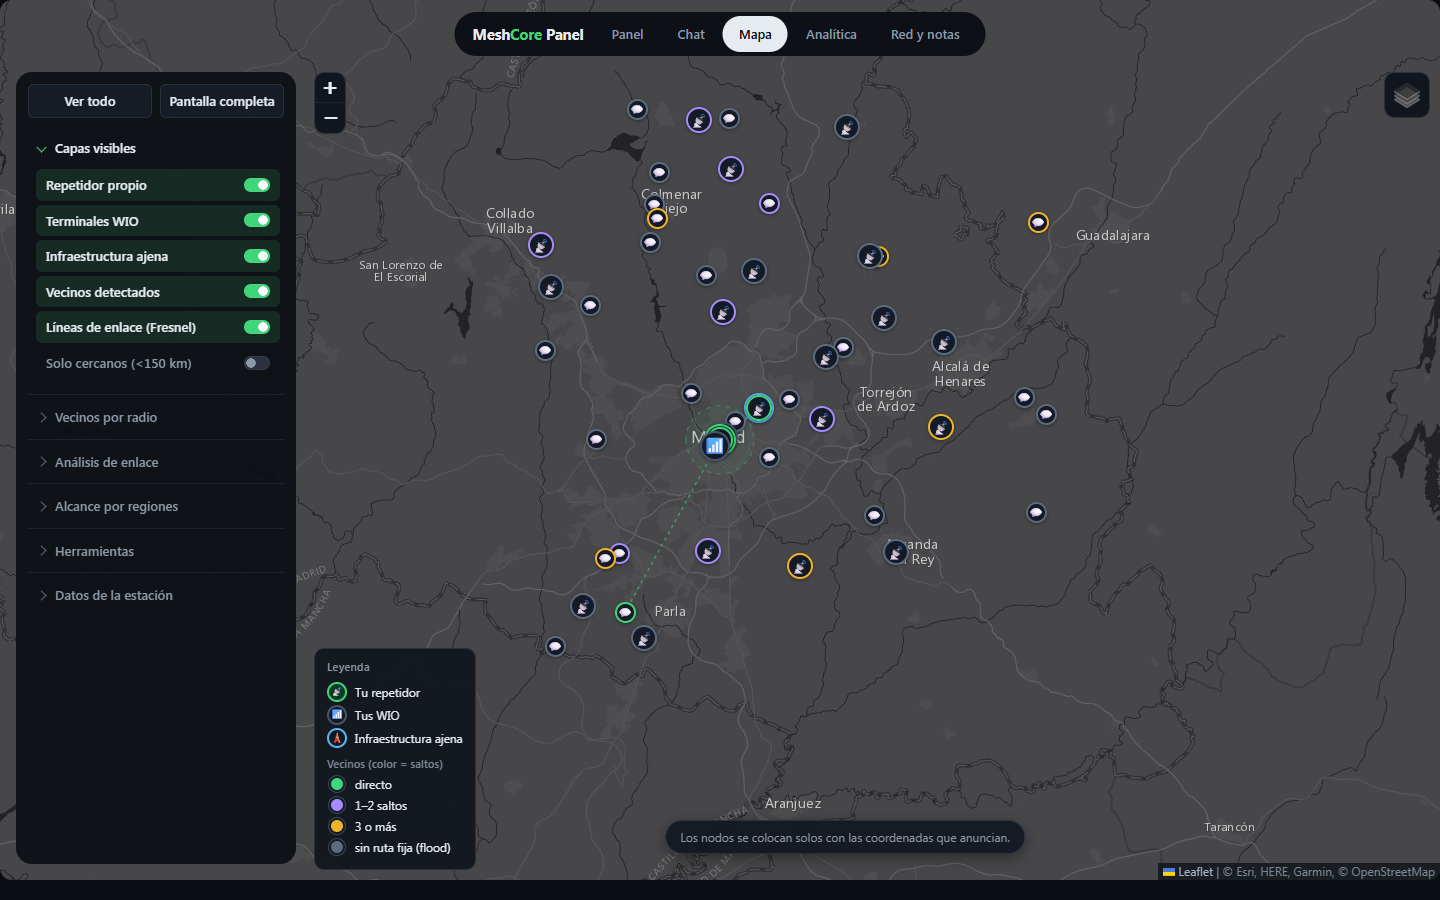
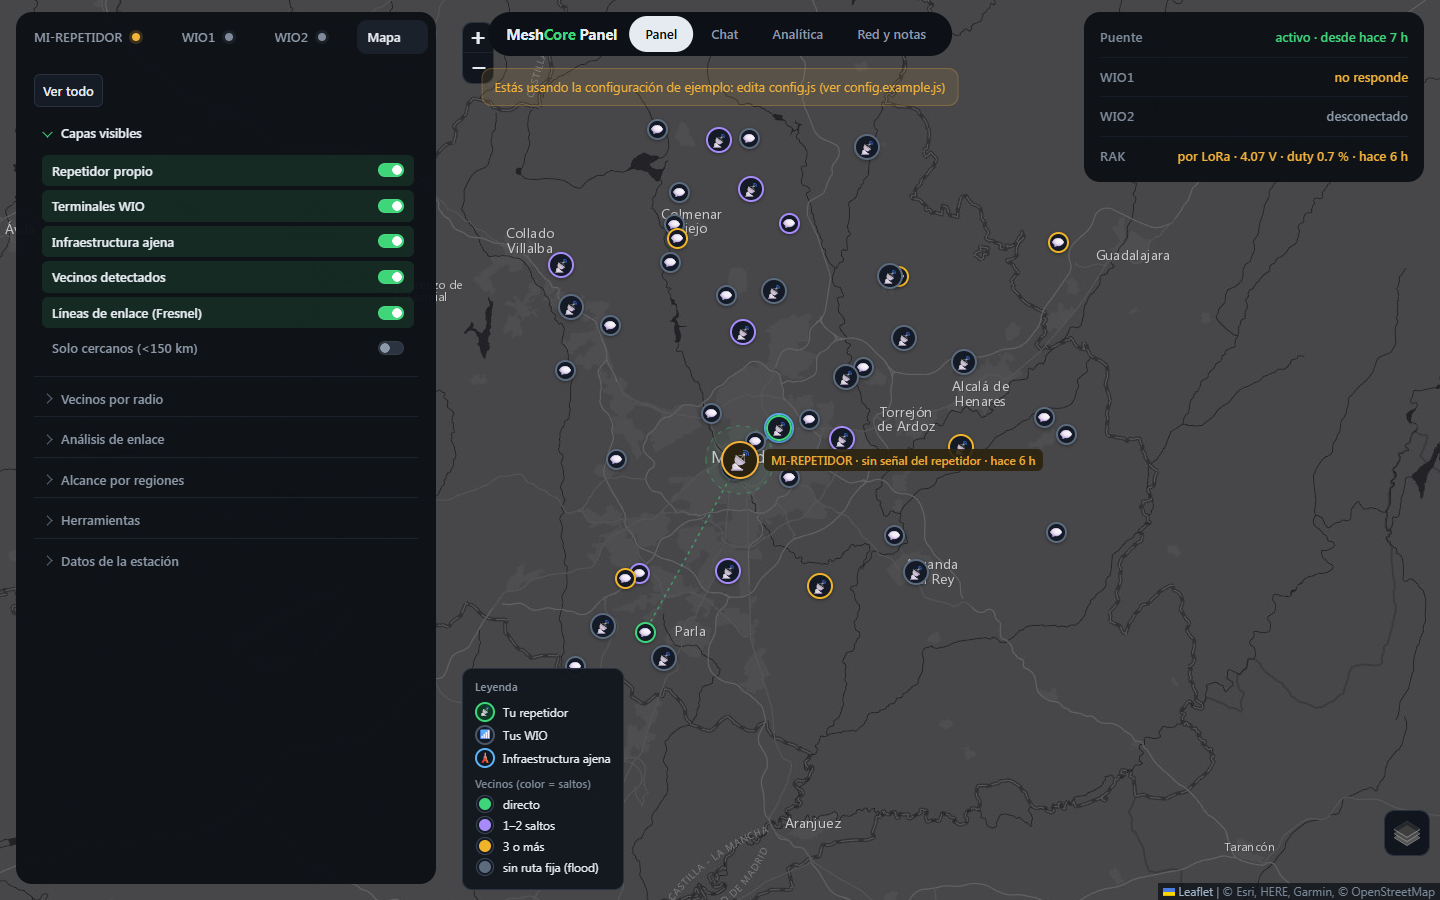
v1.16.0: Panel y mapa en uno, y el chat sitúa en el mapa a quien habla

diff --git a/dashboard.html b/dashboard.html
@@ -655,7 +655,20 @@ header nav.top a{border-radius:999px!important;padding:8px 14px!important;color:
 .wrap{padding-top:28px}
 #tab-stats.on,#tab-red.on{padding-top:64px}
 #tab-equipos.on,#tab-chat.on{height:100dvh!important}
-#tab-equipos .devWrap,#tab-equipos .equiposWrap .grid,#tab-chat .chatcard{top:72px!important}
+#tab-equipos .devWrap,#tab-equipos .equiposWrap .grid{top:12px!important}
+#tab-chat .chatcard{top:72px!important}
+#tab-equipos>#map,#tab-chat>#map{position:absolute!important;inset:0!important;height:auto!important;z-index:0}
+#tab-equipos>#map .leaflet-top.leaflet-left{left:452px;top:12px}
+#tab-equipos>#map .leaflet-top.leaflet-right{top:auto;bottom:44px}
+#tab-equipos>#map .leaflet-bottom.leaflet-left{left:452px}
+#tab-chat>#map .leaflet-top.leaflet-left{top:12px;left:0}
+#tab-chat>#map .leaflet-bottom.leaflet-left{left:0}
+#tab-equipos #cfgAviso{top:68px!important;bottom:auto!important;left:50%!important;transform:translateX(-50%);max-width:520px}
+#tab-chat>#map .leaflet-top.leaflet-right{display:none}
+#tab-chat .msg.in{cursor:pointer}
+.popChat .leaflet-popup-content{font-size:13px}
+#devpanel-mapa{padding-top:4px}
+#devpanel-mapa .mapQuick{display:flex;gap:8px}
 @media (max-width:860px){
   header{top:8px!important;padding:3px!important}
   header h1,header nav.top{display:none!important}
@@ -663,6 +676,10 @@ header nav.top a{border-radius:999px!important;padding:8px 14px!important;color:
   #tab-equipos.on,#tab-chat.on{height:100dvh!important}
   #tab-equipos #cfgAviso{top:56px!important}
   #tab-equipos .devWrap,#tab-chat .chatcard{top:auto!important}
+  #tab-equipos>#map .leaflet-top.leaflet-left,#tab-chat>#map .leaflet-top.leaflet-left{display:none}
+  #tab-equipos #cfgAviso{top:56px!important;left:12px!important;right:12px;transform:none;max-width:none}
+  #tab-equipos>#map .leaflet-bottom.leaflet-left{display:none}
+  #tab-equipos>#map .leaflet-top.leaflet-right{top:52px;bottom:auto}
 }
 /* Barras laterales flotantes (Mapa y Red y notas), como los paneles de Equipos */
 @media (min-width:861px){
@@ -1403,7 +1420,7 @@ const CFG=Object.assign({
 }, window.PANEL_CONFIG||{});
 const REPEATER_POS=[CFG.repetidor.lat, CFG.repetidor.lon];
 const REP_NOMBRE=CFG.repetidor.nombre;
-const PANEL_VERSION='1.15.0';
+const PANEL_VERSION='1.16.0';
 $('#panelVersion').textContent='v'+PANEL_VERSION;
 // Sin config.js propio el panel funciona, pero con nombres de ejemplo que no
 // cuadran con ninguna radio: avisarlo para que no parezca un fallo.
@@ -1460,14 +1477,16 @@ const wNodes={1:null,2:null};
 // ============ Pestañas ============
 let unreadChat=0;
 function showTab(name){
+  if(name==='mapa'){ name='equipos'; setTimeout(()=>document.querySelector('.devTab[data-dev="mapa"]')?.click(),0); }
   document.querySelectorAll('nav.tabs button').forEach(b=>b.classList.toggle('on',b.dataset.tab===name));
   document.querySelectorAll('.tabview').forEach(v=>v.classList.toggle('on',v.id==='tab-'+name));
   if(name==='chat'){ unreadChat=0; updateChatBadge(); fitChatCardToViewport(); }
   if(name==='mapa') fitMapWrapToViewport();
-  // Un solo mapa de fondo: se mueve a la pestaña que lo usa (Equipos o Chat).
+  // Un solo mapa (el completo, con sus capas y herramientas): vive en el
+  // Panel y se lleva al Chat cuando se abre.
   if(name==='equipos'||name==='chat'){
-    const destino=document.getElementById('tab-'+name), m=$('#eqMap'), ley=$('.eqLeyenda');
-    if(m && m.parentNode!==destino){ destino.prepend(ley); destino.prepend(m); }
+    const destino=document.getElementById('tab-'+name), m=$('#map');
+    if(m && m.parentNode!==destino) destino.prepend(m);
     setTimeout(pintarEqMap,30);
   }
   if(name==='stats'){ renderStats(); pintarHistoricoRak(); }
@@ -3256,58 +3275,70 @@ $('#ccLista').addEventListener('click',e=>{
 });
 $('#ccBuscar').addEventListener('input',pintarContactos);
 
-// Equipos sobre el mapa: un segundo mapa, solo de lectura, con lo esencial
-// (repetidor, WIO, vecinos coloreados por saltos). El mapa completo, con sus
-// herramientas, sigue en la pestaña Mapa.
-let eqMap=null;
+// Panel y mapa en uno (1.16): el mapa completo vive en el Panel, sus capas y
+// herramientas pasan a la pestaña «Mapa» del panel izquierdo y se quita la
+// pestaña Mapa de arriba. Se mueven los mismos nodos: sus manejadores siguen.
+(function unirMapaAlPanel(){
+  const panel=document.createElement('div'); panel.className='devPanel'; panel.id='devpanel-mapa';
+  $('#devpanel-w2').after(panel);
+  const sb=$('.mapSidebar');
+  if(sb){ while(sb.firstChild) panel.appendChild(sb.firstChild); sb.remove(); }
+  $('#mapHint')?.remove();
+  $('#btn-map-fullscreen')?.remove();
+  const btn=document.createElement('button'); btn.className='devTab'; btn.dataset.dev='mapa';
+  btn.innerHTML='<span class="devTabIcon">🗺</span><span class="devTabInfo"><span class="devTabName">Mapa</span><span class="devTabSub">capas y herramientas</span></span>';
+  $('.devSidebar').appendChild(btn);
+  btn.addEventListener('click',()=>{
+    document.querySelectorAll('.devTab').forEach(x=>x.classList.toggle('on',x===btn));
+    document.querySelectorAll('.devPanel').forEach(x=>x.classList.toggle('on',x===panel));
+    try{ localStorage.setItem('meshcore-devtab','mapa'); }catch(e){}
+  });
+  try{ if(localStorage.getItem('meshcore-devtab')==='mapa') btn.click(); }catch(e){}
+  $('#tab-equipos').prepend($('#map'));
+  $('#eqMap')?.remove(); $('.eqLeyenda')?.remove();
+  document.querySelector('nav.tabs button[data-tab="mapa"]')?.remove();
+})();
+
+let avisoRak=null;
 function pintarEqMap(){
-  if(!$('#eqMap') || !$('#eqMap').offsetParent) return;  // pestaña sin mapa a la vista
-  if(!eqMap){
-    eqMap=L.map('eqMap',{zoomControl:false});
-    L.tileLayer('https://server.arcgisonline.com/ArcGIS/rest/services/Canvas/World_Dark_Gray_Base/MapServer/tile/{z}/{y}/{x}',
-      {attribution:'&copy; Esri, HERE, Garmin, &copy; OpenStreetMap',maxZoom:16}).addTo(eqMap);
-    L.tileLayer('https://server.arcgisonline.com/ArcGIS/rest/services/Canvas/World_Dark_Gray_Reference/MapServer/tile/{z}/{y}/{x}',
-      {maxZoom:16,pane:'overlayPane'}).addTo(eqMap);
-    eqMap._capa=L.layerGroup().addTo(eqMap);
-  }
-  const g=eqMap._capa; g.clearLayers();
+  if(typeof map==='undefined' || !$('#map').offsetParent) return;
+  map.invalidateSize();
   const est=window.rakEstado, sinRak=!est||est.vieja;
-  const pts=[REPEATER_POS];  // lo que entra en el encuadre inicial: tu zona, no toda la red
-  L.circle(REPEATER_POS,{radius:4000,color:'#3fd67a',weight:1,opacity:.45,fillOpacity:.04,dashArray:'4,6',interactive:false}).addTo(g);
-  const vistos=new Set();
-  for(const i of [1,2]){
-    const d=loadNeighbors(i);
-    for(const c of ((d&&d.contacts)||[])){
-      if((!c.lat&&!c.lon) || vistos.has(c.pubkey)) continue;
-      vistos.add(c.pubkey);
-      if(distKm(REPEATER_POS,[c.lat,c.lon])>150) continue;  // la red ibérica entera no cabe
-      const col=c.hops==null?'#5c6b7d':c.hops===0?'#3fd67a':c.hops<=2?'#a78bfa':'#f0b429';
-      L.polyline([REPEATER_POS,[c.lat,c.lon]],sinRak?{color:'#5c6b7d',weight:1,opacity:.35,dashArray:'3,6',interactive:false}:{color:col,weight:1,opacity:.35,interactive:false}).addTo(g);
-      L.marker([c.lat,c.lon],{icon:neighborIcon(c)}).addTo(g).bindTooltip(esc(c.name||'(sin nombre)'),{direction:'right',className:'eqTag',offset:[12,0]});
-      if(distKm(REPEATER_POS,[c.lat,c.lon])<=30) pts.push([c.lat,c.lon]);
-    }
+  if(avisoRak){ map.removeLayer(avisoRak); avisoRak=null; }
+  if(sinRak){
+    avisoRak=L.marker(REPEATER_POS,{icon:mapPin('📡',38,'#2a2210','#f2b23a'),zIndexOffset:2000,interactive:false}).addTo(map)
+      .bindTooltip(esc(REP_NOMBRE)+' · sin señal del repetidor'+(est&&est.at?' · '+esc(humanAgo(est.at*1000)):''),
+        {permanent:true,direction:'right',className:'eqTag eqAviso',offset:[18,0]});
   }
-  for(const i of [1,2]){
-    const sp=loadSavedPos(i)||(NODE_SITES&&NODE_SITES[i]);
-    if(!sp||!sp.lat) continue;
-    const n=wNodes[i], vivo=!!(n&&n.device&&n.device.gatt.connected);
-    L.marker([sp.lat,sp.lon],{icon:mapPin('📶',30,vivo?'#0d3a24':'#141b26',vivo?'#3fd67a':'#4a5666')}).addTo(g)
-      .bindTooltip('WIO'+i,{permanent:true,direction:'right',className:'eqTag',offset:[14,0]});
-    pts.push([sp.lat,sp.lon]);
-  }
-  L.marker(REPEATER_POS,{icon:sinRak?mapPin('📡',38,'#2a2210','#f2b23a'):mapPin('📡',38,'#0d3a24','#3fd67a'),zIndexOffset:1000}).addTo(g)
-    .bindTooltip(sinRak?esc(REP_NOMBRE)+' · sin señal del repetidor'+(est&&est.at?' · '+esc(humanAgo(est.at*1000)):''):esc(REP_NOMBRE),
-      {permanent:true,direction:'right',className:sinRak?'eqTag eqAviso':'eqTag',offset:[18,0]});
-  eqMap.invalidateSize();
-  if(!eqMap._centrado){
+  if(!map._centradoPanel){
+    // Encuadre inicial: tu zona (repetidor, WIO, vecinos a menos de 30 km).
+    const pts=[REPEATER_POS];
+    if(w1Marker) pts.push(w1Marker.getLatLng());
+    if(w2Marker) pts.push(w2Marker.getLatLng());
+    layerNeighbors.eachLayer(m=>{ if(m.getLatLng && distKm(REPEATER_POS,[m.getLatLng().lat,m.getLatLng().lng])<=30) pts.push(m.getLatLng()); });
     const ancho=window.innerWidth>860;
-    eqMap.fitBounds(L.latLngBounds(pts).pad(.2),ancho?{paddingTopLeft:[450,40],paddingBottomRight:[320,60],maxZoom:13}:{paddingBottomRight:[0,Math.round(window.innerHeight*.45)],maxZoom:13});
-    eqMap._centrado=true;
+    map.fitBounds(L.latLngBounds(pts).pad(.2),ancho?{paddingTopLeft:[450,40],paddingBottomRight:[360,60],maxZoom:13}:{paddingBottomRight:[0,Math.round(window.innerHeight*.45)],maxZoom:13});
+    map._centradoPanel=true;
   }
 }
-window.addEventListener('resize',()=>{ if(eqMap) eqMap.invalidateSize(); });
-window.addEventListener('load',()=>setTimeout(pintarEqMap,200));
-setInterval(pintarEqMap,60000);  // vecinos y estado de los WIO cambian poco
+window.addEventListener('resize',()=>{ if(typeof map!=='undefined') map.invalidateSize(); });
+window.addEventListener('load',()=>setTimeout(pintarEqMap,300));
+setInterval(pintarEqMap,60000);
+
+// Chat: pulsar un mensaje sitúa en el mapa al nodo que lo envió.
+$('#chatBox').addEventListener('click',e=>{
+  const b=e.target.closest('.msg.in'); if(!b) return;
+  const nombre=(b.querySelector('.who b')?.textContent||'').trim(); if(!nombre) return;
+  let c=null;
+  for(const i of [1,2]){ const d=loadNeighbors(i); c=c||((d&&d.contacts)||[]).find(x=>x.name===nombre&&(x.lat||x.lon)); }
+  if(!c){ chatAdd('sys',null,nombre+' no anuncia su posición: no se puede situar en el mapa.','',false); return; }
+  const z=Math.max(map.getZoom(),12), ancho=window.innerWidth>860;
+  const off=ancho?[Math.min(720,window.innerWidth-32)/2,0]:[0,Math.round(window.innerHeight*.33)];
+  map.flyTo(map.unproject(map.project([c.lat,c.lon],z).add(off),z),z,{duration:.8});
+  const saltos=c.hops==null?'sin ruta fija':c.hops===0?'directo':c.hops+(c.hops===1?' salto':' saltos');
+  L.popup({className:'popChat',autoPan:false}).setLatLng([c.lat,c.lon])
+    .setContent('<b>'+esc(nombre)+'</b><br>'+saltos+' · '+distKm(REPEATER_POS,[c.lat,c.lon]).toFixed(1)+' km de tu repetidor').openOn(map);
+});
 $('#chatChan').addEventListener('change',()=>{
   const v=$('#chatChan').value;
   if(v.startsWith('p:')){ const c=contactosChat().find(x=>x.pubkey.startsWith(v.slice(2))); if(c) elegirDestino(c); }

diff --git a/bridge/meshcore_ble_gateway.py b/bridge/meshcore_ble_gateway.py
@@ -90,7 +90,7 @@ def politica_cli(cmd: str, confirmed: bool):
         return 409, f'CONFIRMAR: {info.cli} - {info.note or info.label}'
     return None
 
-PANEL_VERSION = '1.15.0'
+PANEL_VERSION = '1.16.0'
 PORT = int(os.getenv('MESHCORE_BLE_GATEWAY_PORT', '8780'))
 # 0.0.0.0 por defecto porque el relay del PC entra por la LAN. Si el relay
 # corre en la propia Pi, MESHCORE_BIND=127.0.0.1 deja el puerto solo para nginx.

diff --git a/CHANGELOG.md b/CHANGELOG.md
@@ -3,6 +3,18 @@
 Formato basado en [Keep a Changelog](https://keepachangelog.com/es-ES/1.1.0/) y versiones
 según [SemVer](https://semver.org/lang/es/).
 
+## [1.16.0] - 2026-10-18
+
+### Cambiado
+- Panel y mapa en uno: el mapa completo (capas, líneas de enlace, traceroute)
+  es el fondo del Panel, y sus capas y herramientas (vecinos por radio,
+  análisis de enlace, alcance, herramientas) están en la pestaña «Mapa» del
+  panel izquierdo. Se quita la pestaña Mapa de arriba.
+- Los paneles laterales suben a la altura de la pastilla superior; en el
+  teléfono el panel es una hoja inferior y se quitan controles que estorban.
+- Chat: pulsar un mensaje lleva el mapa al nodo que lo envió (saltos y
+  distancia a tu repetidor); si no anuncia posición, el chat lo dice.
+
 ## [1.15.0] - 2026-10-18
 
 ### Cambiado

diff --git a/README.md b/README.md
@@ -54,7 +54,7 @@ navegador ──HTTPS──> nginx (TLS + login) ──> gateway :8780 (Raspberr
 - El **relay** corre en un PC con Bluetooth cerca de los companion y es su único dueño.
 - El **repetidor** se gestiona por LoRa a través de un companion: no necesita Bluetooth.
 
-Versión actual: 1.15.0**1.0.0** · cambios en [`CHANGELOG.md`](CHANGELOG.md).
+Versión actual: 1.16.0**1.0.0** · cambios en [`CHANGELOG.md`](CHANGELOG.md).
 
 ## Requisitos
 
